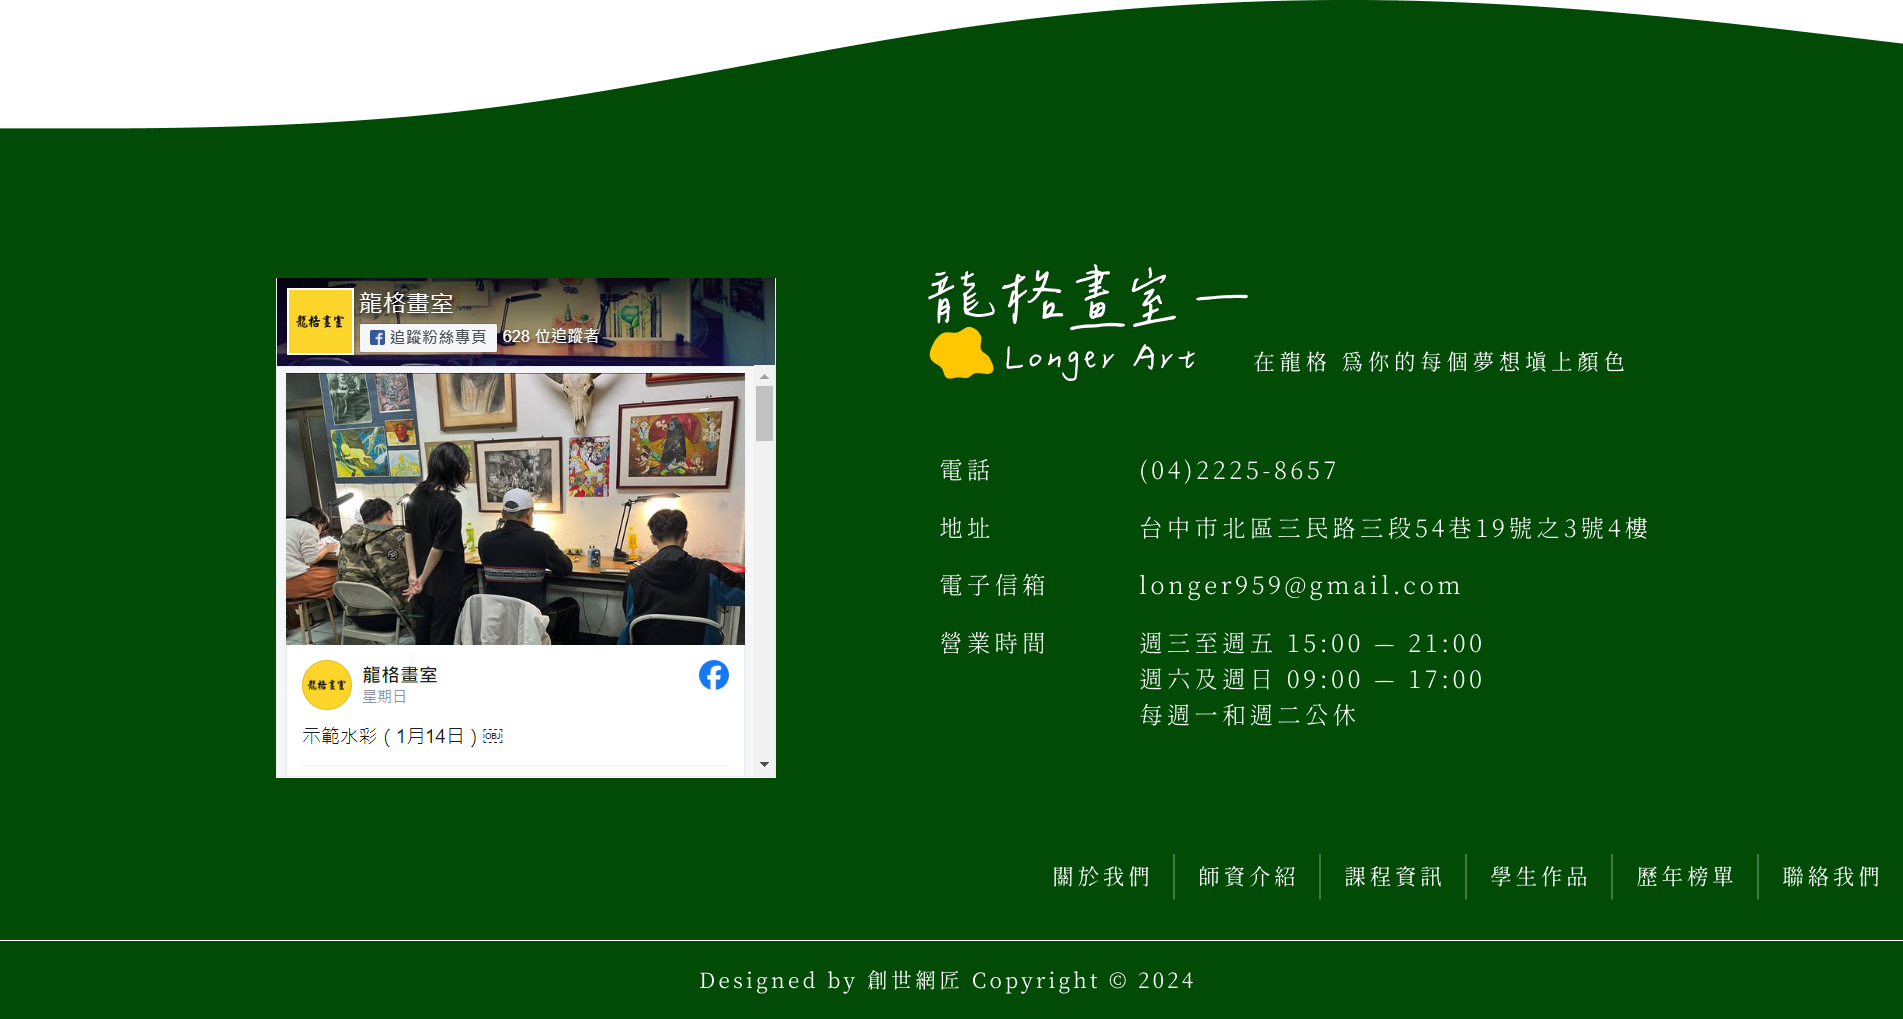
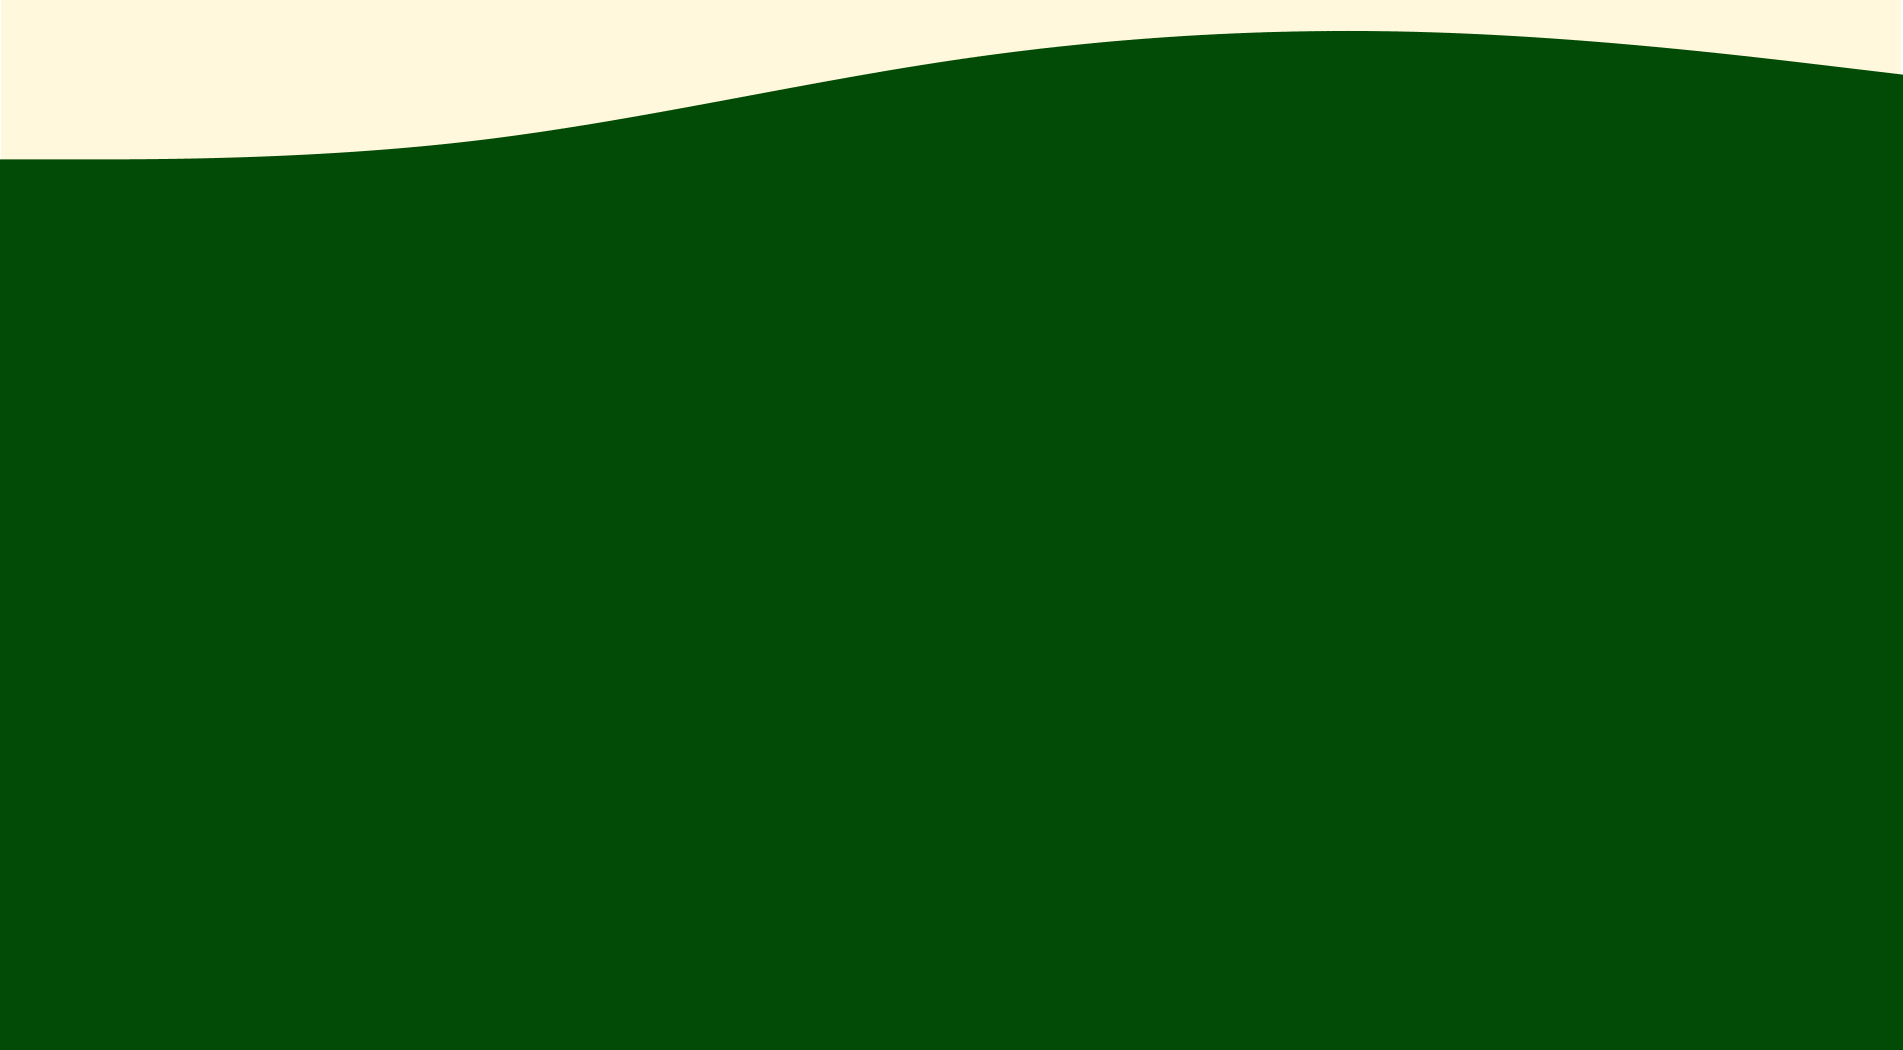
0122: 主頁update

diff --git a/Longer/src/App.vue b/Longer/src/App.vue
@@ -143,7 +143,7 @@ export default {
     </section>
   </footer>
 </template>
-<img src="./assets/img/generic/" alt="">
+<!-- <img src="./assets/img/generic/footer-bg.png" alt=""> -->
 
 <style lang="scss" scoped>
 //公版 nav
@@ -175,10 +175,10 @@ header {
 
 // 公版頁尾
 footer {
-  @apply flex flex-wrap w-[100%] h-[85vh] text-[#fff] bg-[url('')];
+  @apply flex flex-wrap w-[100%] h-[85vh] text-[#fff] bg-[url('./assets/img/generic/footer-bg.png')] bg-cover bg-no-repeat;
 
   .footer-content {
-    @apply flex flex-wrap justify-center items-center w-[50%] h-[90%];
+    @apply flex flex-wrap justify-center items-end w-[50%] h-[90%] pb-[50px];
 
     .footer-r-top {
       @apply w-[100%];
